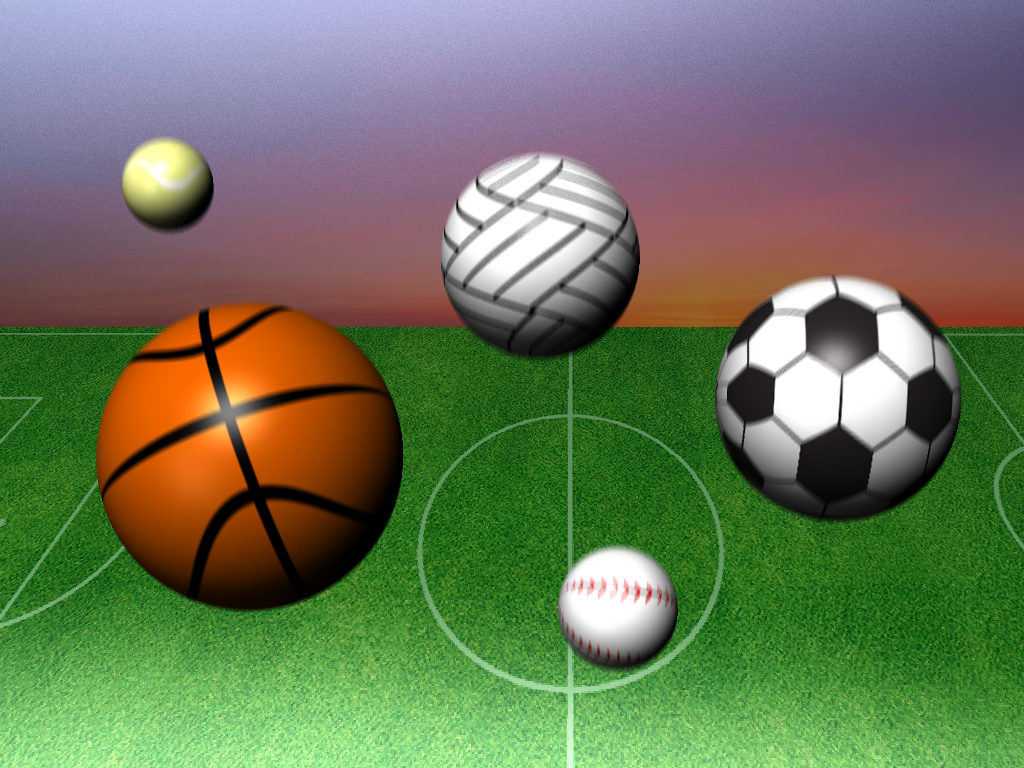
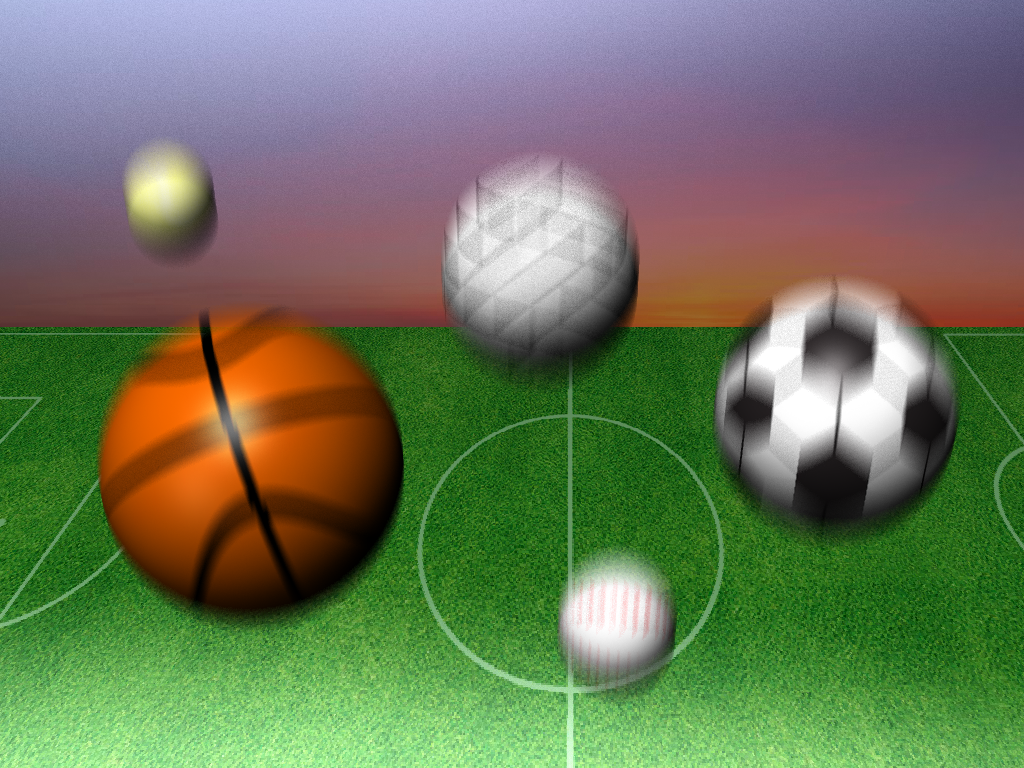
added velocity global data

diff --git a/src/raytracer/raytracer.cpp b/src/raytracer/raytracer.cpp
@@ -184,14 +184,15 @@ glm::vec4 RayTracer::traceRay(const RayTraceScene &scene, KdTree::KdNode* root, 
     glm::vec3 closestIntersection;
     Shape* closestShape = nullptr;
 
+    float velocity = scene.getGlobalData().globalVel;
+
     std::vector<Shape*> shapes = kdTree.query(eyePoint, d, root);
 
     for (const auto shape : shapes) {
         float t;
         glm::vec3 intersectionPoint;
 
-
-        if (shape->calcIntersection(eyePoint, d, intersectionPoint, t, time)) {
+        if (shape->calcIntersection(eyePoint, d, intersectionPoint, t, time, velocity)) {
             float worldT = glm::length(intersectionPoint - eyePoint);
 
             if (worldT < closestT) {
@@ -242,7 +243,7 @@ glm::vec4 RayTracer::traceRay(const RayTraceScene &scene, KdTree::KdNode* root, 
                         glm::vec3 shadowIntersection;
 
                         if (shadowShape->calcIntersection(offsetIntersection, shadowDir,
-                                                          shadowIntersection, shadowT, 0)) {
+                                                          shadowIntersection, shadowT, 0, velocity)) {
                             float shadowDist = glm::length(shadowIntersection - offsetIntersection);
                             if (shadowDist < maxDist) {
                                 sampleInShadow = true;
@@ -283,7 +284,7 @@ glm::vec4 RayTracer::traceRay(const RayTraceScene &scene, KdTree::KdNode* root, 
                     glm::vec3 shadowIntersection;
 
                     // calculate shadows based on the shape's position at time = 0
-                    if (shadowShape->calcIntersection(offsetIntersection, lightDirection, shadowIntersection, shadowT, 0)) {
+                    if (shadowShape->calcIntersection(offsetIntersection, lightDirection, shadowIntersection, shadowT, 0, velocity)) {
                         float shadowDistance = glm::length(shadowIntersection - offsetIntersection);
 
                         if (shadowDistance < maxDistance || light.type == LightType::LIGHT_DIRECTIONAL) {
@@ -371,7 +372,7 @@ bool RayTracer::traceRayThroughLens(const glm::vec3 eyePoint, const glm::vec3 d,
             Sphere sphere = Sphere(translation, SceneMaterial{}, glm::vec3(0.0), nullptr);
             sphere.setIsLens(true);
             sphere.setRadius(r);
-            if (!sphere.calcIntersection(eyePointLens, dLens, intersectionPoint, t, 0.0)) {
+            if (!sphere.calcIntersection(eyePointLens, dLens, intersectionPoint, t, 0.0, 0.0)) {
                 return false;
             } else {
                 n = sphere.calcNormal(intersectionPoint);

diff --git a/src/utils/scenefilereader.cpp b/src/utils/scenefilereader.cpp
@@ -149,7 +149,7 @@ bool ScenefileReader::readJSON() {
  */
 bool ScenefileReader::parseGlobalData(const QJsonObject &globalData) {
     QStringList requiredFields = {"ambientCoeff", "diffuseCoeff", "specularCoeff"};
-    QStringList optionalFields = {"transparentCoeff"};
+    QStringList optionalFields = {"transparentCoeff", "globalVel"};
     QStringList allFields = requiredFields + optionalFields;
     for (auto field : globalData.keys()) {
         if (!allFields.contains(field)) {
@@ -192,6 +192,15 @@ bool ScenefileReader::parseGlobalData(const QJsonObject &globalData) {
         }
         else {
             std::cout << "globalData transparentCoeff must be a floating-point value" << std::endl;
+            return false;
+        }
+    }
+    if (globalData.contains("globalVel")) {
+        if (globalData["globalVel"].isDouble()) {
+            m_globalData.globalVel = globalData["globalVel"].toDouble();
+        }
+        else {
+            std::cout << "globalData velocity must be a floating-point value" << std::endl;
             return false;
         }
     }

diff --git a/src/utils/sphere.cpp b/src/utils/sphere.cpp
@@ -19,10 +19,10 @@ glm::vec3 Sphere::calcNormal(const glm::vec3 point) {
 }
 
 // Method to calculate the intersection with a ray
-bool Sphere::calcIntersection(const glm::vec3 rayOrigin, const glm::vec3 rayDirection, glm::vec3& intersectionPoint, float& t, float time) {
+bool Sphere::calcIntersection(const glm::vec3 rayOrigin, const glm::vec3 rayDirection, glm::vec3& intersectionPoint, float& t, float time, float vel) {
 
     glm::vec3 centerWorld = glm::vec3(m_ctm * glm::vec4(m_center, 1.0f));
-    glm::vec3 movingCenter = centerWorld - time * m_velocity * glm::vec3(0, 0.1, 0);
+    glm::vec3 movingCenter = centerWorld - time * m_velocity * glm::vec3(0, vel, 0);
 
     glm::vec3 rayToPoint = rayOrigin - movingCenter;
     glm::vec3 P = glm::vec3(m_inverseCTM * glm::vec4(rayToPoint, 0.0f));

diff --git a/src/utils/scenedata.h b/src/utils/scenedata.h
@@ -33,13 +33,14 @@ enum class TransformationType {
 // Type which can be used to store an RGBA color in floats [0,1]
 using SceneColor = glm::vec4;
 
-// Struct which contains the global color coefficients of a scene.
+// Struct which contains the global color coefficients of a scene. It also contains the global velocity
 // These are multiplied with the object-specific materials in the lighting equation.
 struct SceneGlobalData {
     float ka; // Ambient term
     float kd; // Diffuse term
     float ks; // Specular term
     float kt; // Transparency; used for extra credit (refraction)
+    float globalVel; // velocity for all primitives
 };
 
 // Struct which contains raw parsed data fro a single light

diff --git a/src/utils/cone.cpp b/src/utils/cone.cpp
@@ -23,7 +23,7 @@ glm::vec3 Cone::calcNormal(const glm::vec3 point) {
 
 
 // Method to calculate the intersection with a ray
-bool Cone::calcIntersection(const glm::vec3 rayOrigin, const glm::vec3 rayDirection, glm::vec3& intersectionPoint, float& t, float time) {
+bool Cone::calcIntersection(const glm::vec3 rayOrigin, const glm::vec3 rayDirection, glm::vec3& intersectionPoint, float& t, float time, float vel) {
     glm::vec3 P = glm::vec3(m_inverseCTM * glm::vec4(rayOrigin, 1.0f));
     glm::vec3 d = glm::normalize(glm::vec3(m_inverseCTM * glm::vec4(rayDirection, 0.0f)));
 

diff --git a/src/utils/cube.cpp b/src/utils/cube.cpp
@@ -27,7 +27,7 @@ glm::vec3 Cube::calcNormal(const glm::vec3 point) {
 
 
 // Method to calculate the intersection with a ray
-bool Cube::calcIntersection(const glm::vec3 rayOrigin, const glm::vec3 rayDirection, glm::vec3& intersectionPoint, float &t, float time) {
+bool Cube::calcIntersection(const glm::vec3 rayOrigin, const glm::vec3 rayDirection, glm::vec3& intersectionPoint, float &t, float time, float vel) {
     glm::vec3 P = glm::vec3(m_inverseCTM * glm::vec4(rayOrigin, 1.0f));
     glm::vec3 d = glm::normalize(glm::vec3(m_inverseCTM * glm::vec4(rayDirection, 0.0f)));
 

diff --git a/src/utils/cylinder.cpp b/src/utils/cylinder.cpp
@@ -25,7 +25,7 @@ glm::vec3 Cylinder::calcNormal(const glm::vec3 point) {
 }
 
 
-bool Cylinder::calcIntersection(const glm::vec3 rayOrigin, const glm::vec3 rayDirection, glm::vec3& intersectionPoint, float &t, float time) {
+bool Cylinder::calcIntersection(const glm::vec3 rayOrigin, const glm::vec3 rayDirection, glm::vec3& intersectionPoint, float &t, float time, float vel) {
     glm::vec3 P = glm::vec3(m_inverseCTM * glm::vec4(rayOrigin, 1.0f));
     glm::vec3 d = glm::normalize(glm::vec3(m_inverseCTM * glm::vec4(rayDirection, 0.0f)));
 

diff --git a/src/utils/sphere.h b/src/utils/sphere.h
@@ -8,7 +8,7 @@ class Sphere : public Shape {
 public:
     Sphere(const glm::mat4& ctm, const SceneMaterial& material, glm::vec3 velocity, const Image* image);
 
-    bool calcIntersection(const glm::vec3 rayOrigin, const glm::vec3 rayDirection, glm::vec3& intersectionPoint, float& t, float time) override;
+    bool calcIntersection(const glm::vec3 rayOrigin, const glm::vec3 rayDirection, glm::vec3& intersectionPoint, float& t, float time, float vel) override;
 
     glm::vec3 calcNormal(const glm::vec3 point) override;
 

diff --git a/src/utils/shape.h b/src/utils/shape.h
@@ -33,7 +33,7 @@ public:
 
     virtual glm::vec3 calcNormal(const glm::vec3 point) = 0;
 
-    virtual bool calcIntersection(const glm::vec3 rayOrigin, const glm::vec3 rayDirection, glm::vec3& intersectionPoint, float &t, float time) = 0;
+    virtual bool calcIntersection(const glm::vec3 rayOrigin, const glm::vec3 rayDirection, glm::vec3& intersectionPoint, float &t, float time, float vel) = 0;
 
     virtual BoundingBox getBoundingBox() = 0;
 

diff --git a/src/utils/cone.h b/src/utils/cone.h
@@ -11,7 +11,7 @@ public:
 
     glm::vec3 calcNormal(const glm::vec3 point) override;
 
-    bool calcIntersection(const glm::vec3 rayOrigin, const glm::vec3 rayDirection, glm::vec3& intersectionPoint, float& t, float time) override;
+    bool calcIntersection(const glm::vec3 rayOrigin, const glm::vec3 rayDirection, glm::vec3& intersectionPoint, float& t, float time, float vel) override;
 
     BoundingBox getBoundingBox() override;
 

diff --git a/src/utils/cube.h b/src/utils/cube.h
@@ -11,7 +11,7 @@ public:
 
     glm::vec3 calcNormal(const glm::vec3 point) override;
 
-    bool calcIntersection(const glm::vec3 rayOrigin, const glm::vec3 rayDirection, glm::vec3& intersectionPoint, float& t, float time) override;
+    bool calcIntersection(const glm::vec3 rayOrigin, const glm::vec3 rayDirection, glm::vec3& intersectionPoint, float& t, float time, float vel) override;
 
     BoundingBox getBoundingBox() override;
 

diff --git a/src/utils/cylinder.h b/src/utils/cylinder.h
@@ -11,7 +11,7 @@ public:
 
     glm::vec3 calcNormal(const glm::vec3 point) override;
 
-    bool calcIntersection(const glm::vec3 rayOrigin, const glm::vec3 rayDirection, glm::vec3& intersectionPoint, float &t, float time) override;
+    bool calcIntersection(const glm::vec3 rayOrigin, const glm::vec3 rayDirection, glm::vec3& intersectionPoint, float &t, float time, float vel) override;
 
     BoundingBox getBoundingBox() override;
 
